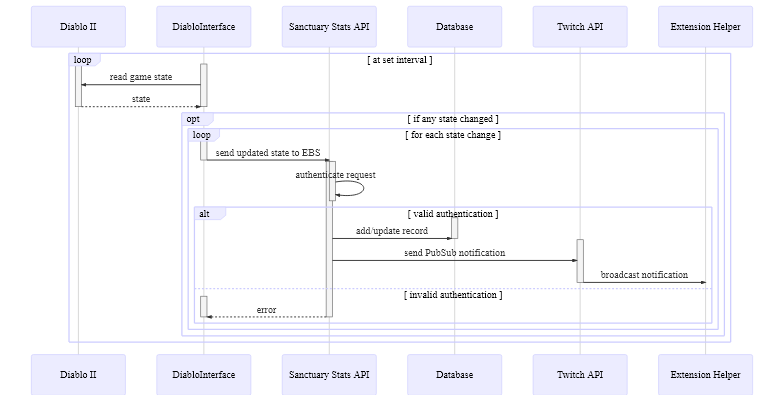
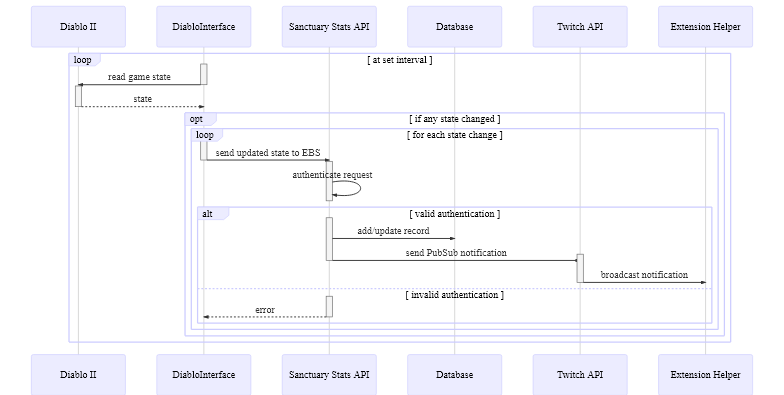
add sequence diagram to readme

diff --git a/README.md b/README.md
@@ -10,4 +10,6 @@ Previously, I built a Twitch extension called Diablo 2 Item Display. This extens
 
 Overview
 ---
-The sequence of events involved in sending data from the broadcaster's system to the extension front-end is as follows: [transaction]: 
+The sequence of events involved in sending data from the broadcaster's system to the extension front-end is as follows:
+
+![Sequence diagram of a data transaction](https://raw.githubusercontent.com/palmettos/sanctuary-stats-api/master/docs/sequence.png)
